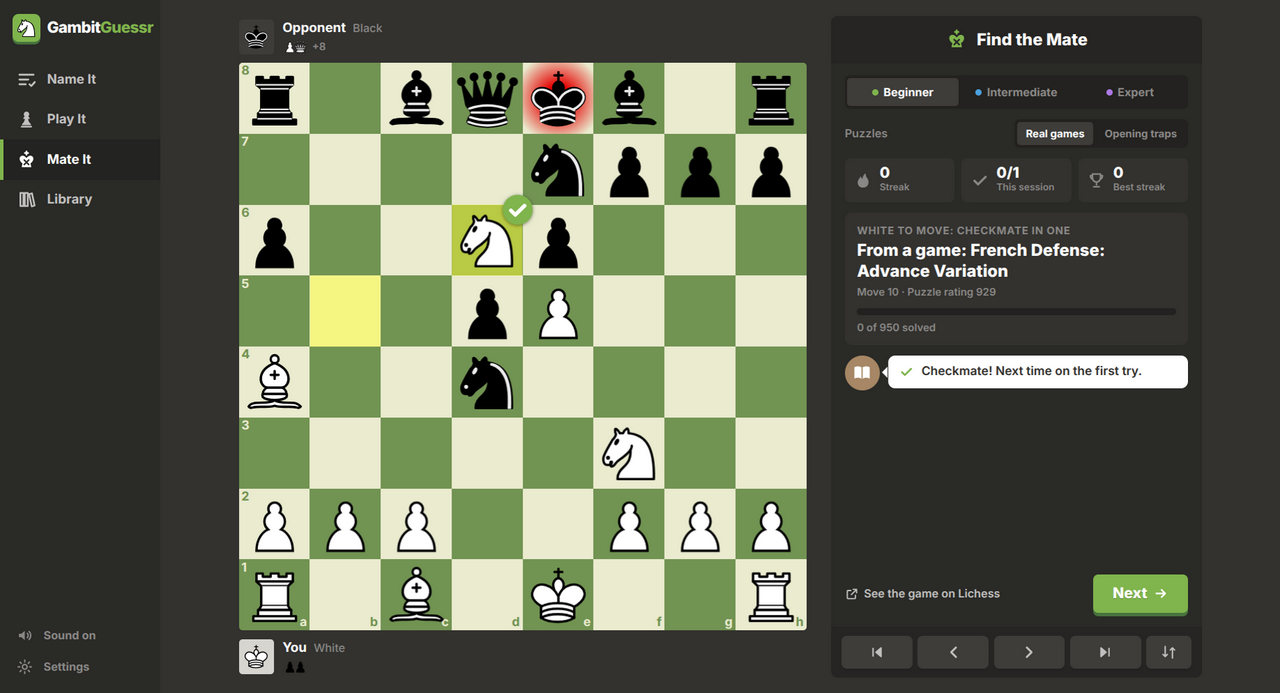
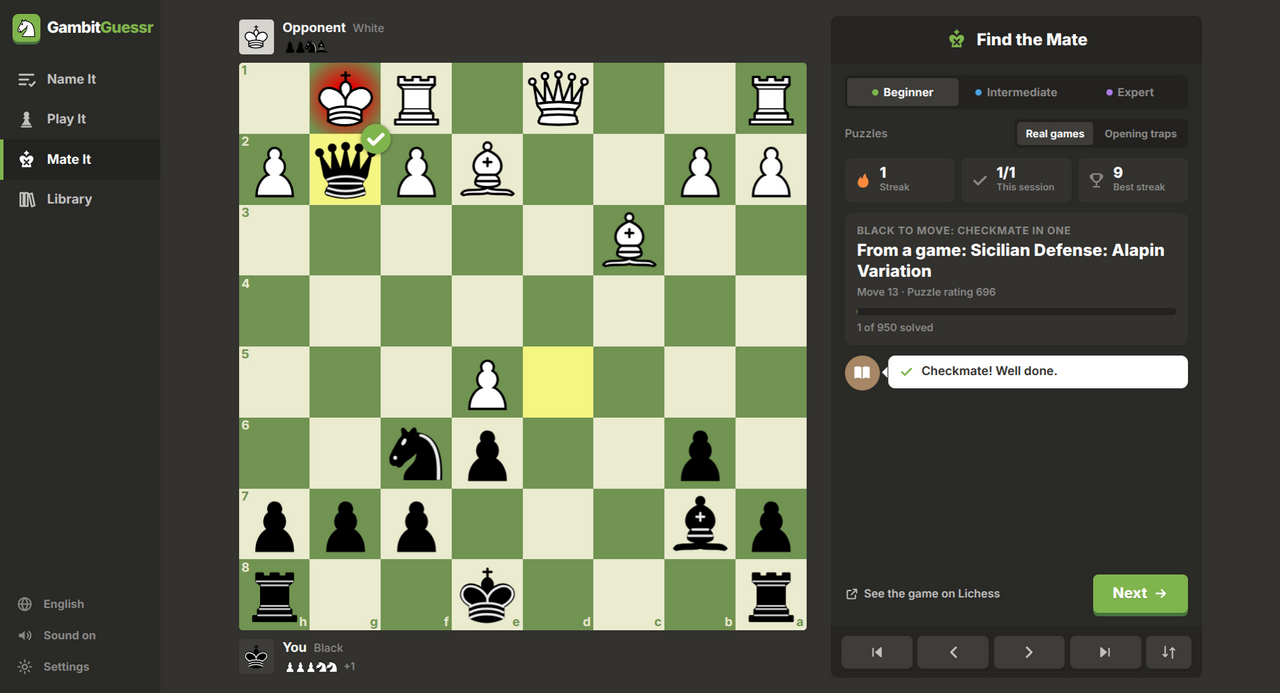
README: install steps for each Linux distro, new screenshots of 1.1.2 [skip ci]

diff --git a/test/e2e/scenarios/readme-shots.js b/test/e2e/scenarios/readme-shots.js
@@ -1,0 +1,103 @@
+'use strict';
+// Takes the README screenshots (npm run screenshots). The progress shown in the Library is
+// demo data written into the throwaway test profile, so the bars and ticks have something to show.
+
+const DEMO_LEARNED = ['Italian Game', 'Ruy Lopez', 'Sicilian Defense', 'French Defense', 'Caro-Kann Defense',
+  "Queen's Gambit", 'London System', 'Scotch Game', "King's Gambit", 'Scandinavian Defense', 'Slav Defense', 'Vienna Game'];
+
+const ready = (H) => H.waitFor(() => H.js(`!document.body.classList.contains('loading')`));
+const movable = (H) => H.waitFor(() => H.js(`document.querySelectorAll('.pc.mine').length > 0`), 15000);
+const search = (H, q) => H.js(`(() => { const i = document.querySelector('.search-input'); i.value = ${JSON.stringify(q)}; i.dispatchEvent(new Event('input')); })()`);
+async function library(H, category, query) {
+  await H.click('.nav-item[data-view="library"]');
+  if (await H.js(`!!document.querySelector('.back-btn')`)) await H.click('.back-btn');
+  await H.click(`.cat-card`, category);
+  await search(H, query || '');
+  await H.sleep(200);
+}
+
+module.exports = async (H) => {
+  await H.js(`(() => {
+    const p = {};
+    for (const n of ${JSON.stringify(DEMO_LEARNED)}) p[n] = { name: { seen: 2, good: 2, streak: 2 }, play: { seen: 1, good: 1, streak: 1 }, last: Date.now() };
+    p['Pirc Defense'] = { name: { seen: 1, good: 0, streak: 0 }, last: Date.now() };
+    localStorage.setItem('gambit.progress.v1', JSON.stringify(p));
+    localStorage.setItem('gambit.records.v1', JSON.stringify({ nameStreak: 14, mateStreak: 9 }));
+  })()`);
+  await H.js(`location.reload()`);
+  await H.sleep(400);
+  await ready(H);
+
+  // Library: categories with progress.
+  await library(H, 'Beginner');
+  await H.shot('library');
+
+  // Name It: the Najdorf, named correctly.
+  await library(H, 'Intermediate', 'Najdorf Variation');
+  await H.click('.op-row');
+  await H.sleep(150);
+  await H.click('.btn', 'Name it');
+  await H.waitFor(() => H.js(`document.querySelectorAll('.moves .move .san').length === 10`), 15000);
+  await H.sleep(600);
+  await H.js(`document.querySelector('.answer-input').value = 'Sicilian Najdorf'`);
+  await H.click('.btn-primary', 'Submit');
+  await H.sleep(500);
+  await H.shot('name-it');
+
+  // Play It: Ruy Lopez, but 3.Bc4 is played, a book move into the Italian Game.
+  await library(H, 'Beginner', 'Ruy Lopez');
+  await H.click('.op-row');
+  await H.sleep(150);
+  await H.click('.btn-primary', 'Play it');
+  for (const [from, to] of [['e2', 'e4'], ['g1', 'f3']]) {
+    await movable(H);
+    await H.dragMove(from, to);
+    await H.sleep(900);
+  }
+  await movable(H);
+  await H.dragMove('f1', 'c4');
+  await H.sleep(250);
+  await H.shot('play-it');
+  await H.sleep(1000);
+
+  // Mate It: a solved puzzle from a real game.
+  await H.click('.nav-item[data-view="mate"]');
+  await movable(H);
+  const mate = await H.js(`(async () => {
+    const { Chess } = await import('./vendor/chess.js');
+    const c = new Chess(document.getElementById('board').dataset.fen);
+    const m = c.moves({ verbose: true }).find((m) => { const x = new Chess(c.fen()); x.move(m); return x.isCheckmate(); });
+    return { from: m.from, to: m.to };
+  })()`);
+  await H.dragMove(mate.from, mate.to);
+  await H.sleep(700);
+  await H.shot('mate-it');
+
+  // Make it yours: brown board, Celtic pieces, a long line in the Library.
+  await H.click('#btn-settings');
+  await H.click('.theme[data-theme="brown"]');
+  await H.click('.piece-set[data-set="celtic"]');
+  await H.sleep(200);
+  await H.click('.dlg-close');
+  await library(H, 'Intermediate', 'Marshall Attack');
+  await H.click('.op-row');
+  await H.sleep(600);
+  await H.shot('themes');
+  await H.click('#btn-settings');
+  await H.click('.theme[data-theme="green"]');
+  await H.click('.piece-set[data-set="cburnett"]');
+  await H.click('.dlg-close');
+
+  // The language picker, then the app in Polish.
+  await library(H, 'Beginner');
+  await H.click('#btn-lang');
+  await H.click('.lang-card[data-lang="pl"]');
+  await H.sleep(200);
+  await H.shot('languages');
+  await H.click('.lang-confirm');
+  await H.sleep(400);
+  await H.click('.nav-item[data-view="name"]');
+  await H.sleep(300);
+  await library(H, 'Początkujący');
+  await H.shot('polish');
+};

diff --git a/README.md b/README.md
@@ -11,21 +11,67 @@ It's a free desktop app for Windows and Linux, styled after chess.com's game scr
 - **Puzzles:** 2,787 mate-in-one puzzles from real games, plus famous opening traps.
 - **Languages:** English, Polish, German, Spanish and French.
 
-![Name It: guess the opening from the board](docs/screenshots/name-it.png)
+![Name It: the Sicilian Najdorf, named correctly](docs/screenshots/name-it.png)
 
 ## Download
 
 Get the latest version from the [**Releases page**](../../releases/latest).
 
-| System | File | How |
+### Windows
+
+| | File | How |
 |---|---|---|
-| Windows 10 / 11 | `GambitGuessr-Setup-<version>.exe` | Run it. It installs in a few seconds and adds a Start-menu and desktop shortcut. |
-| Windows, no install | `GambitGuessr-<version>-Portable.exe` | Just run it. |
-| Linux (any distro) | `GambitGuessr-<version>.AppImage` | Make it executable (`chmod +x`), then run it. |
-| Debian / Ubuntu | `gambitguessr_<version>_amd64.deb` | `sudo apt install ./gambitguessr_<version>_amd64.deb` |
+| Windows 10 / 11 | `GambitGuessr-Setup-<version>.exe` | Run it. It installs in a few seconds and adds Start-menu and desktop shortcuts. |
+| No install | `GambitGuessr-<version>-Portable.exe` | Just run it. |
 
 The Windows files aren't code-signed, so Windows may show *"Windows protected your PC"*.
 Click **More info → Run anyway**.
+
+### Linux
+
+Every package below is tested by installing it and starting the app in the official
+Linux Mint, Fedora, Arch Linux and Gentoo containers, on every change
+([Linux distros workflow](../../actions/workflows/linux.yml)).
+
+| Distro | File | Install |
+|---|---|---|
+| **Linux Mint**, Ubuntu, Debian, Pop!_OS, Zorin, elementary | `gambitguessr_<version>_amd64.deb` | Double-click it, or `sudo apt install ./gambitguessr_<version>_amd64.deb` |
+| **Fedora**, openSUSE, RHEL, Nobara | `gambitguessr-<version>.x86_64.rpm` | `sudo dnf install ./gambitguessr-<version>.x86_64.rpm` (openSUSE: `sudo zypper install …`) |
+| **Arch Linux**, Manjaro, EndeavourOS, CachyOS | `gambitguessr-<version>.pacman` | `sudo pacman -U gambitguessr-<version>.pacman`, or build the AUR recipe in [`packaging/arch`](packaging/arch) |
+| **Gentoo** | ebuild in [`packaging/gentoo`](packaging/gentoo) | Copy `games-board/gambitguessr-bin` into a local overlay, then `emerge games-board/gambitguessr-bin` |
+| Any distro, no install | `GambitGuessr-<version>.AppImage` | `chmod +x GambitGuessr-*.AppImage`, then run it. It doesn't need the old `libfuse2`. |
+| Any distro, manual | `gambitguessr-<version>.tar.gz` | Unpack it anywhere and run `./gambitguessr` |
+
+After installing a package, GambitGuessr appears in your app menu under Games, and
+`gambitguessr` starts it from a terminal.
+
+<details>
+<summary>Gentoo: setting up a local overlay</summary>
+
+```
+sudo mkdir -p /var/db/repos/local/{metadata,profiles}
+echo local | sudo tee /var/db/repos/local/profiles/repo_name
+printf 'masters = gentoo\nthin-manifests = true\n' | sudo tee /var/db/repos/local/metadata/layout.conf
+printf '[local]\nlocation = /var/db/repos/local\n' | sudo tee /etc/portage/repos.conf/local.conf
+sudo cp -r packaging/gentoo/games-board /var/db/repos/local/
+sudo ebuild /var/db/repos/local/games-board/gambitguessr-bin/gambitguessr-bin-*.ebuild manifest
+echo 'games-board/gambitguessr-bin ~amd64' | sudo tee /etc/portage/package.accept_keywords/gambitguessr
+sudo emerge games-board/gambitguessr-bin
+```
+
+Turn on the `suid` USE flag only if your kernel has unprivileged user namespaces
+disabled.
+</details>
+
+<details>
+<summary>If the app doesn't start on Linux</summary>
+
+- **AppImage won't open:** it needs FUSE, which every desktop distro has. On a very minimal
+  system, install `fuse3`, or run it with `--appimage-extract-and-run`.
+- **Sandbox error with the `.tar.gz`:** some distros disable unprivileged user namespaces,
+  which the sandbox needs. Use the `.deb`, `.rpm`, pacman package or AppImage, which handle
+  this, or start it with `./gambitguessr --no-sandbox`.
+</details>
 
 ## How it works
 
@@ -43,7 +89,7 @@ The moves play out on the board and you type the opening's name.
 You're given the name of an opening and play its moves by dragging pieces or clicking
 them. The app answers with the book moves for the other side.
 
-![Play It: a book move that leads to a different opening](docs/screenshots/play-it.png)
+![Play It: 3.Bc4 in the Ruy Lopez is a book move, but it leads to the Italian Game](docs/screenshots/play-it.png)
 
 - A correct move gets a green ✓, and a wrong one gets a red ✕ and is taken back.
 - A real opening move that belongs to another line gets a book icon, with the name of the opening it leads to.
@@ -53,7 +99,7 @@ them. The app answers with the book moves for the other side.
 
 ### Mate It: find the checkmate
 
-![Mate It: a mate in one from a real Italian Game](docs/screenshots/mate-it.png)
+![Mate It: a mate in one from a real Sicilian game](docs/screenshots/mate-it.png)
 
 Your opponent's last move is played on the board, and you find the checkmate in one.
 - Every position comes from a real game, and the app shows which opening that game was.
@@ -84,7 +130,7 @@ completing a category. Openings you get wrong come back more often.
 
 ### In your language
 
-![The Library in Polish](docs/screenshots/polish.png)
+![Choosing the language](docs/screenshots/languages.png)
 
 The first time you start GambitGuessr, it asks which language you want: **English, Polski,
 Deutsch, Español or Français**. Your computer's language is preselected, and your choice is
@@ -95,9 +141,11 @@ sidebar, or in Settings.
 - **Variation names:** these stay in their international English form, as on Lichess.
 - **Moves:** they're written with small piece pictures (♘f3) instead of letters, so they read the same everywhere.
 
+![The Library in Polish](docs/screenshots/polish.png)
+
 ### Make it yours
 
-![Brown board with the Celtic pieces](docs/screenshots/themes.png)
+![Brown board with the Celtic pieces, showing the Marshall Attack](docs/screenshots/themes.png)
 
 - **Settings:** 7 piece sets, 5 board colours, animation speed, sound, legal-move dots and coordinates.
 - **Board marks:** right-click a square to mark it, or right-drag to draw an arrow, just like on chess.com.
@@ -127,7 +175,7 @@ npm start
 |---|---|
 | `npm test` | unit tests: answer checking, translations, the whole opening dataset and every puzzle |
 | `npm run test:e2e` | drives the real app with mouse and keyboard and saves screenshots (Linux) |
-| `npm run dist` | builds the Linux AppImage and .deb into `dist/` |
+| `npm run dist` | builds the Linux AppImage, .deb, .rpm, pacman package and .tar.gz into `dist/` (`.rpm` needs `rpm`, pacman needs `bsdtar`) |
 | `npm run dist:win` | builds the Windows installer and portable .exe (on Windows, or on Linux with Wine) |
 | `npm run data` | rebuilds `renderer/data/openings.json`; add `-- --fetch` to re-download from Lichess |
 | `npm run puzzles` | rebuilds `renderer/data/puzzles.json` from the Lichess puzzle database; add `-- --fetch` to download it (about 300 MB) |
